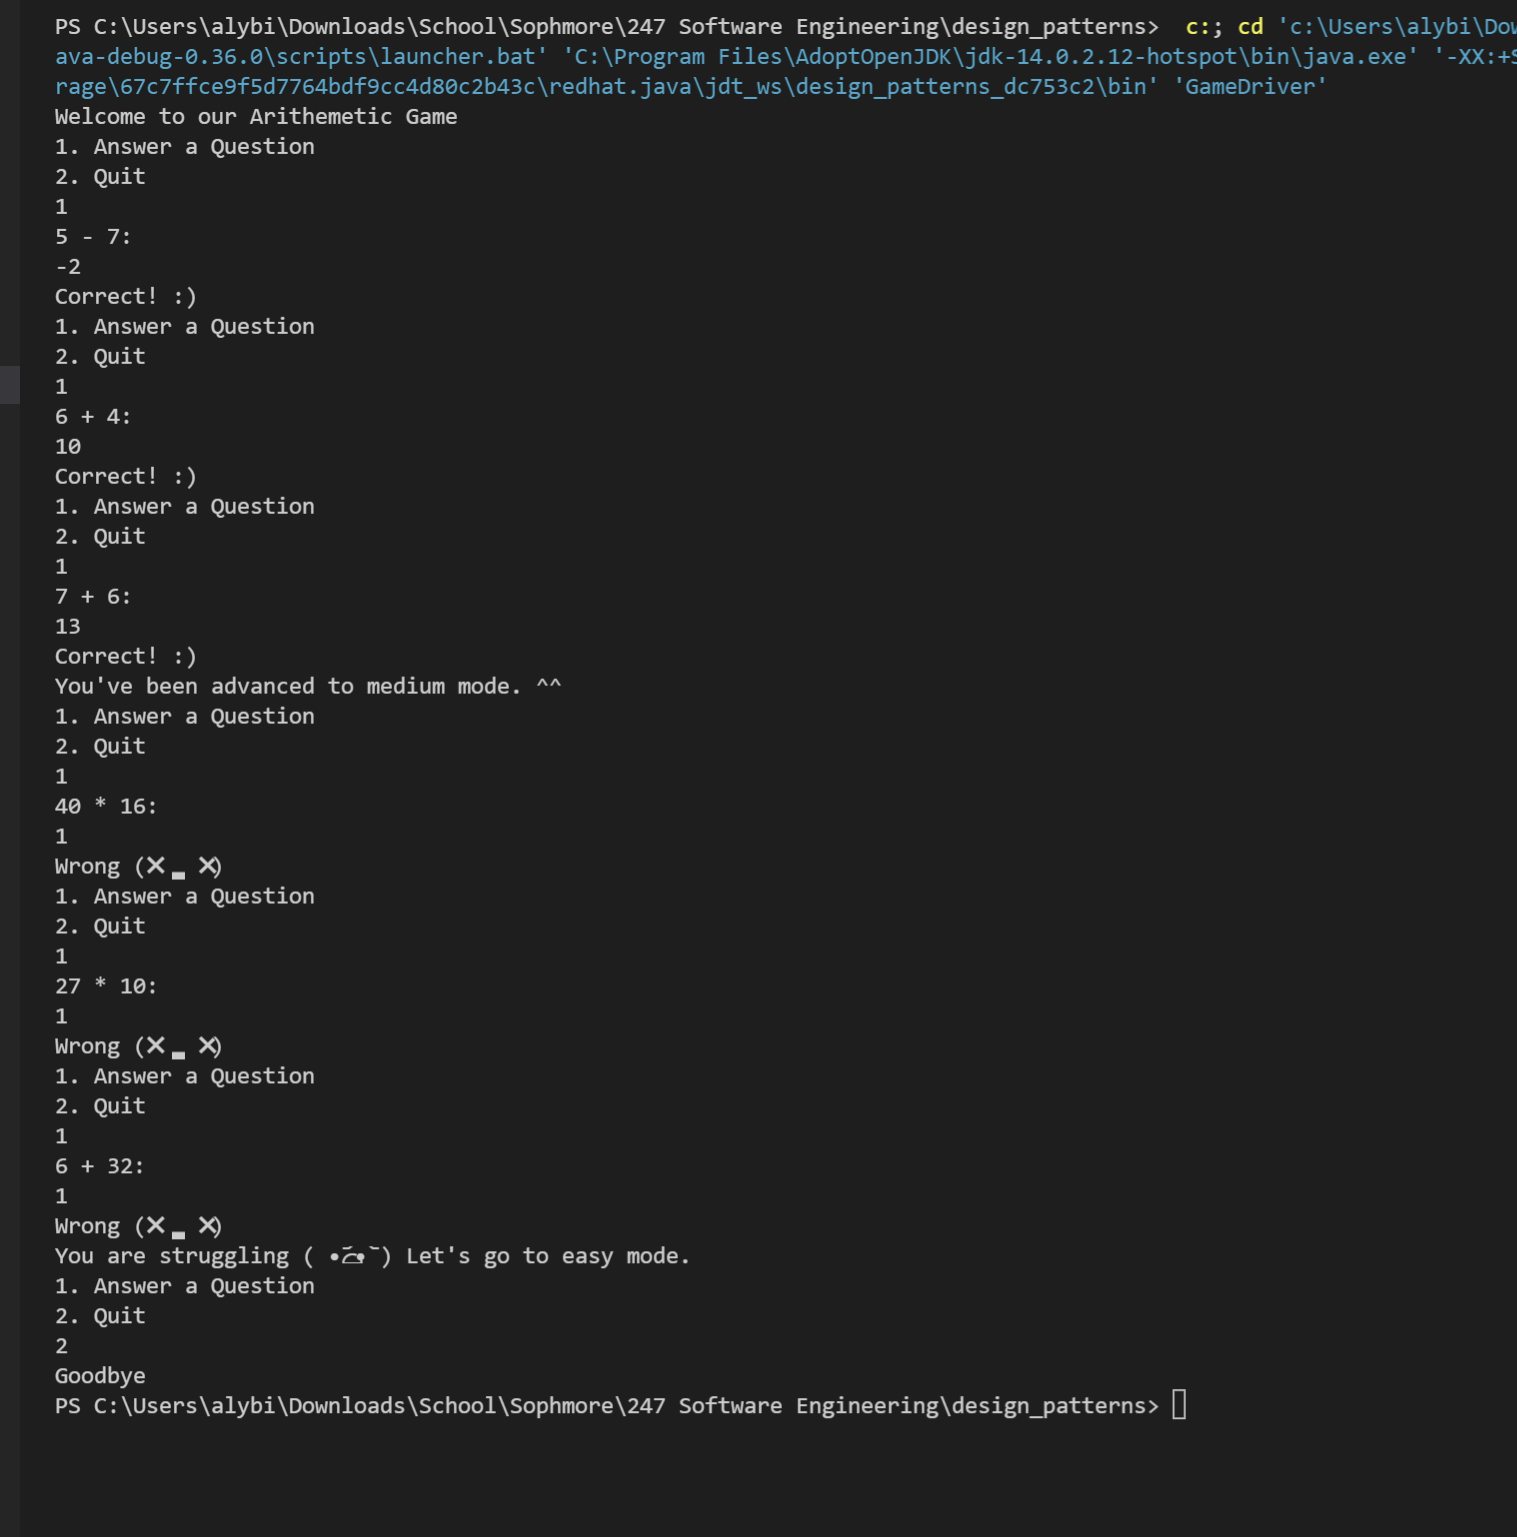
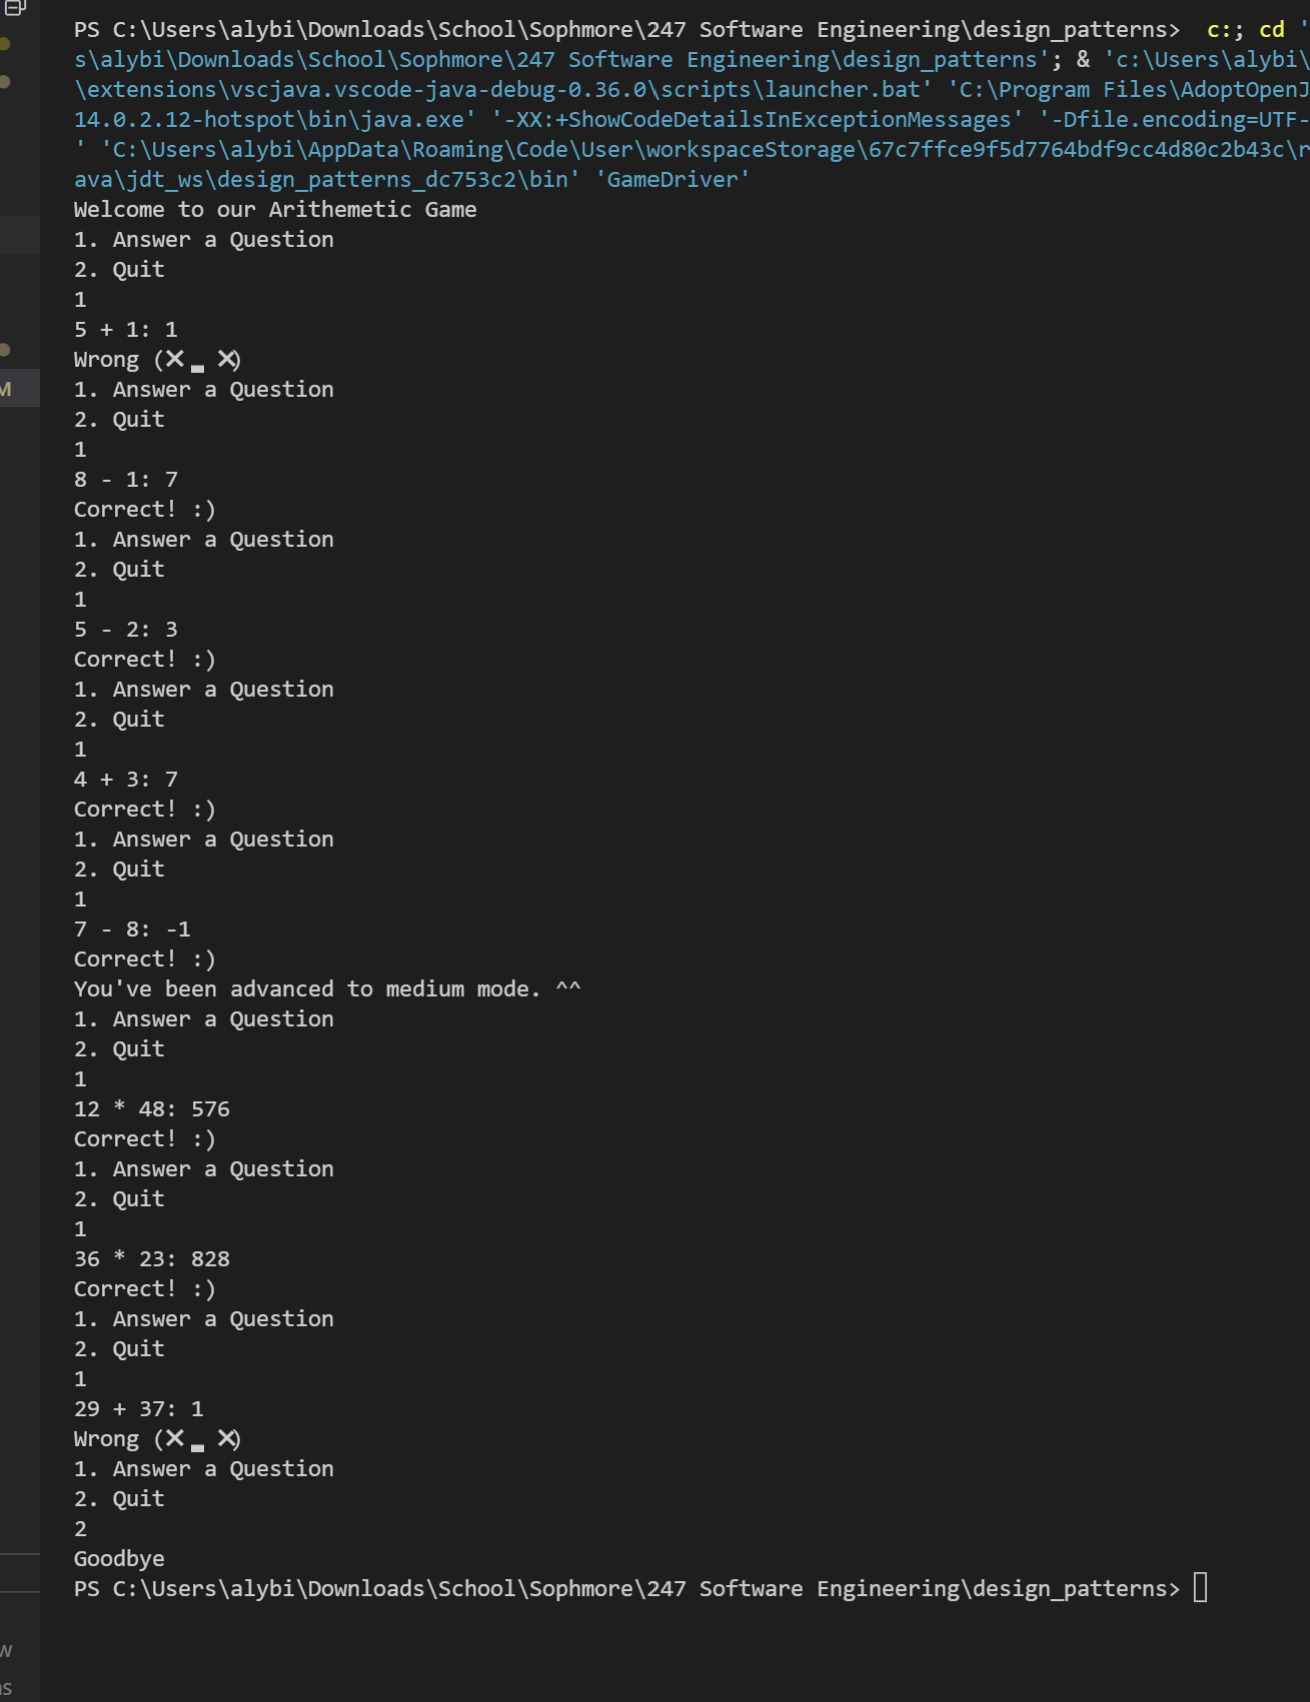
fixed output/formatting

Changed region(s): [[0.0, 0.0, 1.0, 0.9369], [0.2748, 0.812, 0.458, 0.8432], [0.8244, 0.9057, 0.8855, 0.9369]]

diff --git a/state/ArithmeticGame.java b/state/ArithmeticGame.java
@@ -27,7 +27,7 @@ public class ArithmeticGame {
         int num1 = state.getNum();
         int num2 = state.getNum();
         String op = state.getOperation();
-        System.out.println(num1 + " " + op + " " + num2 +": " );
+        System.out.print(num1 + " " + op + " " + num2 +": " );
         int ans = Integer.parseInt(reader.nextLine());
         if ((op.equals("+") && ans == (num1+num2)) || (op.equals("-") && ans == (num1-num2)) ||
             (op.equals("*") && ans == (num1*num2)) || (op.equals("/") && ans == (num1/num2))) {
